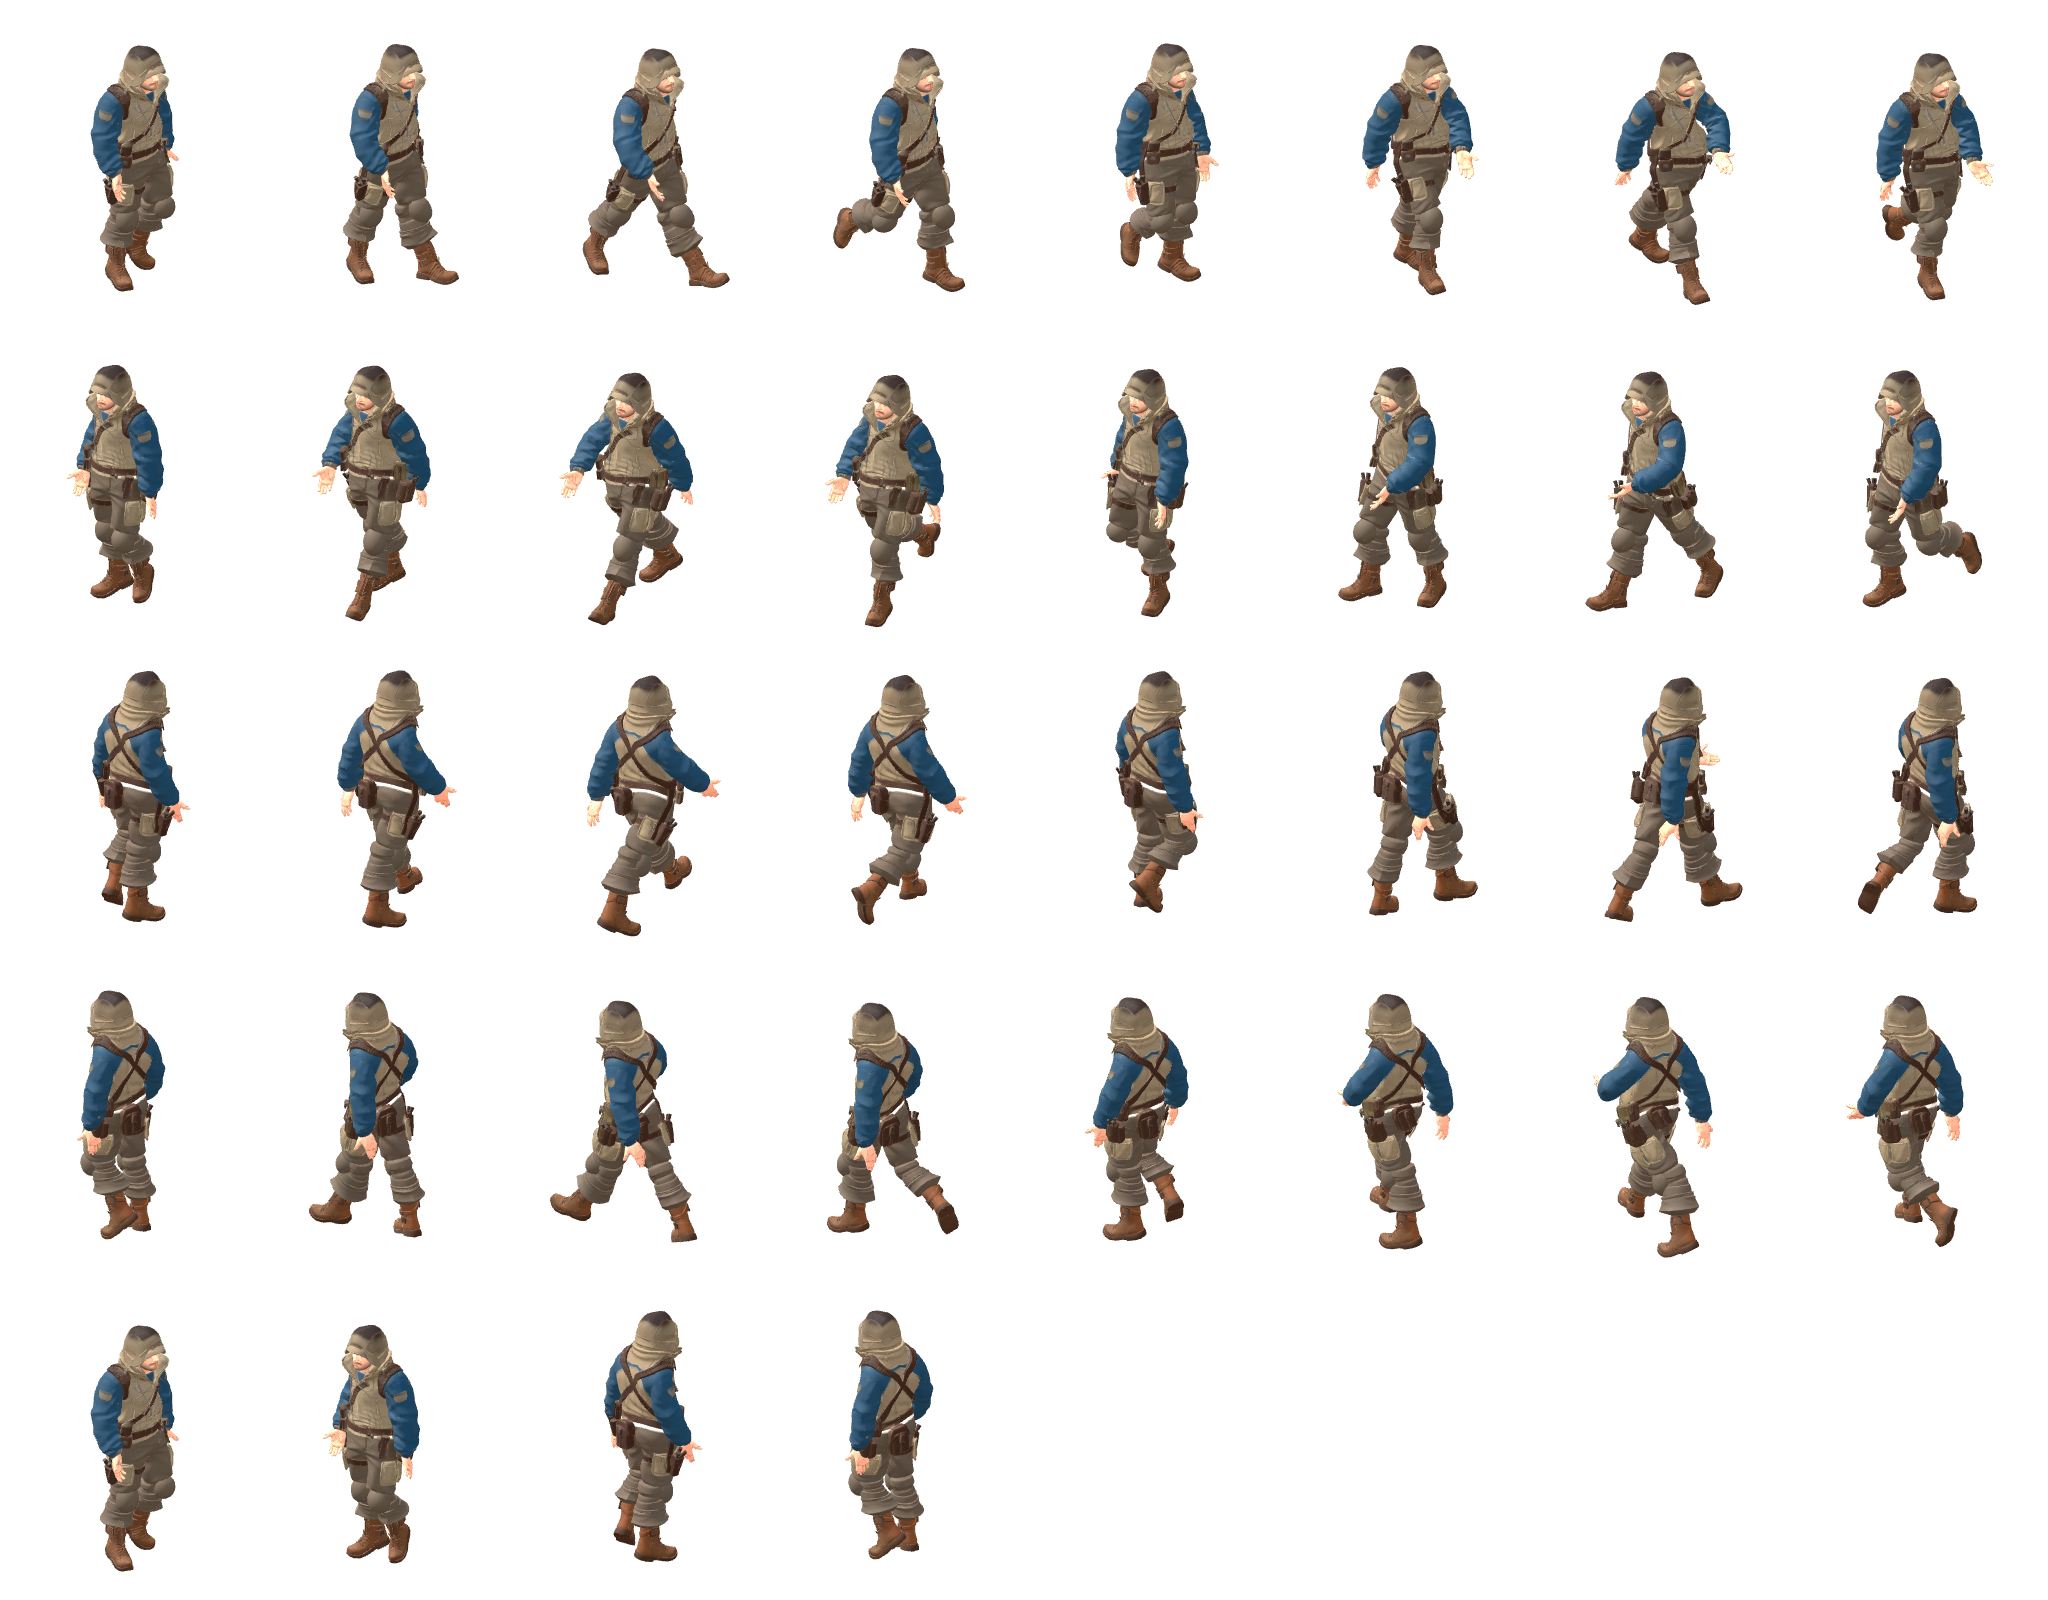
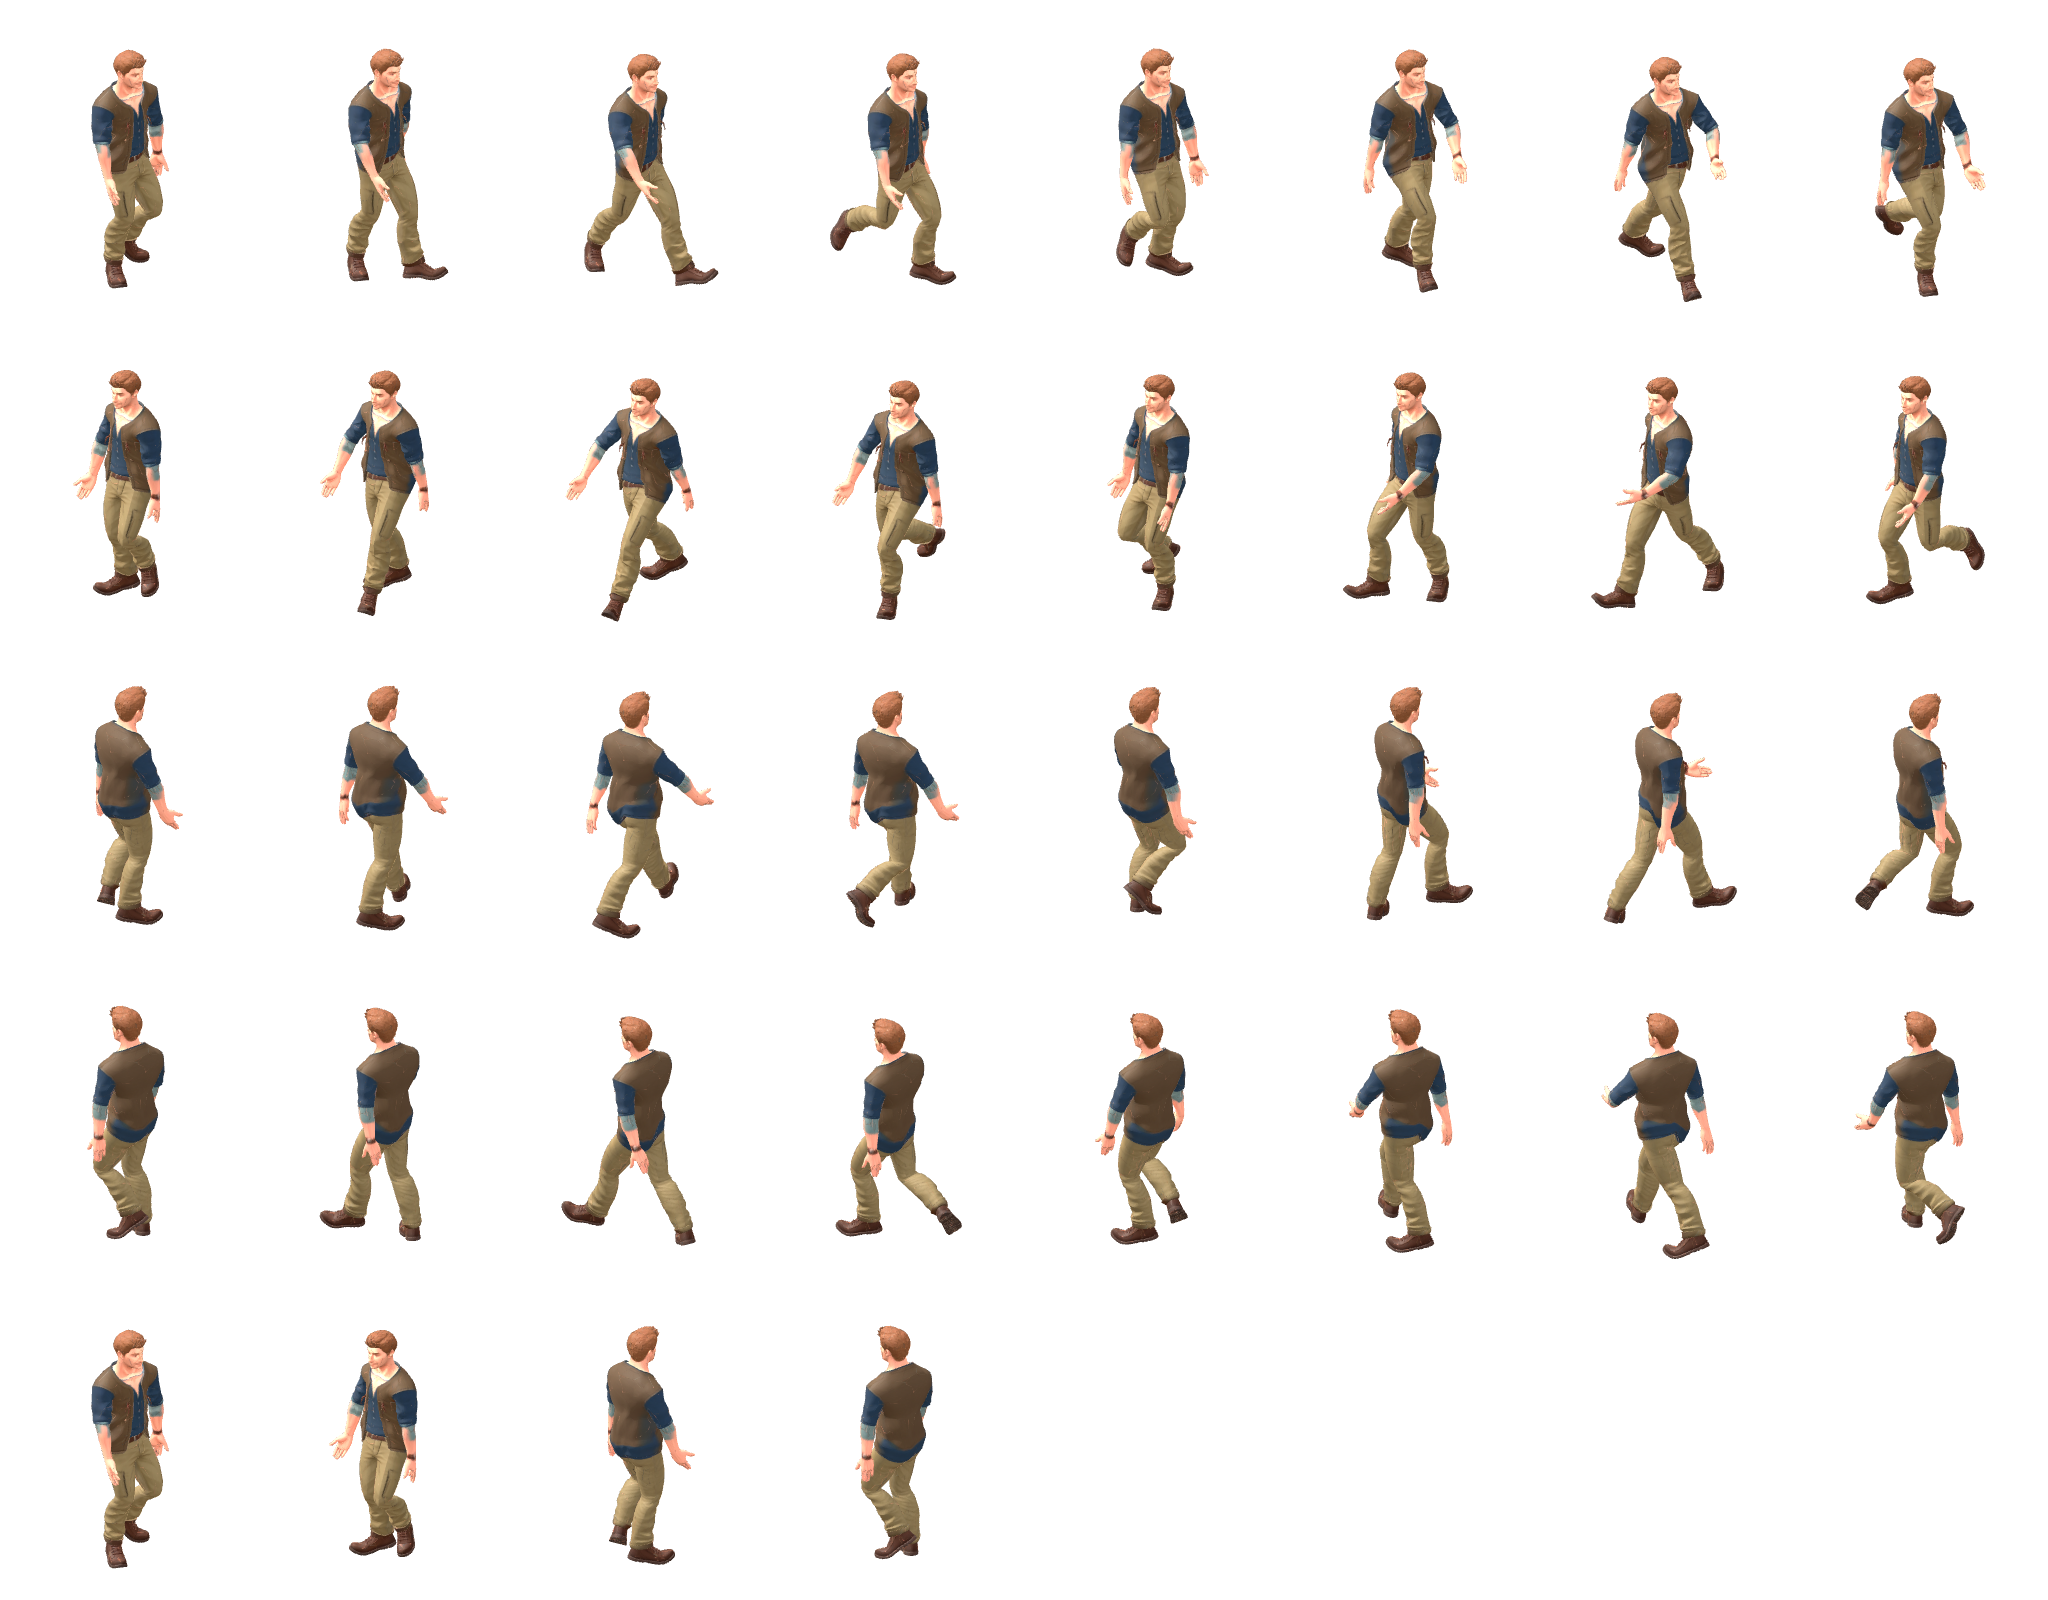
Captain v2 sprite sheet; matches crew style
Claude-Session: https://claude.ai/code/session_015PRSzR8Wnn9zCSxfKuTdYo

diff --git a/design/proto_iso.html b/design/proto_iso.html
@@ -135,7 +135,7 @@ button:hover { border-color: var(--amber); } button:focus-visible { outline: 2px
     if (!(key(...t) in prev)) return null; const p = []; let c = t; while (c) { p.unshift(c); c = prev[key(...c)]; } return p;
   }
 
-  const me = { i: 7, j: 7, x: 0, y: 0, path: [], then: null, col: '#8fd694', name: 'Captain', dir: 'sw', sprite: true };
+  const me = { i: 7, j: 7, x: 0, y: 0, path: [], then: null, col: '#8fd694', name: 'Captain', dir: 'sw', sprite: true, sc: 0.63 };
   let npcs = [];
   const MANIFOLD = { rect: [335, 62, 430, 152], stand: [5, 1] };
   let done = false, insp = 0, show = false, hover = null, hoverCell = null, dlg = false, fade = 0, fadeDir = 0, pending = null;

diff --git a/docs/character_art_brief.md b/docs/character_art_brief.md
@@ -51,3 +51,6 @@ Style learning: Meshy ignores 'no X' exclusions; body type words matter ('lean s
 - castellan: preview_v1 01a1841d-f2c4-73b8-a30f-90076c13ea2c, preview 01a1842e-101f-70b7-ac94-f44a91eb504f, refine 01a1843b-9033-7166-9363-bf2c95f9c92b, remesh 01a1843d-5703-7483-87ab-79d9270a5b60, rig 01a1843e-ddef-700e-bbe8-a97dc11e8df0
 - quill: preview 01a1841d-ffa9-7627-8bfa-d9890c6bbc3b, refine 01a1842e-26f9-7541-a501-85353ccdbb33, remesh 01a1843d-4c79-7169-9599-80961daa2f77, rig 01a1843e-b9fd-7602-b2c0-38f3e4926456
 - fenwick: preview_v1 01a1841e-0d67-75b1-a5a4-055315568f66, preview_v2 01a1842e-1b1f-7620-bb61-5fca2621a0b1, refine_v2 01a1843b-95e7-752d-ba9b-69fde193b07c, preview 01a1843d-6815-71ff-ba22-097e0be90663
+
+### Captain v2 (2026-10-28)
+Regenerated with the learned prompt style (style first, positive wording, average build, plain navy shirt, canvas vest, tan trousers, one wristband). Result matches the crew's look. Old sheet kept as design/assets/captain_v1_sheet.png. IDs in design/assets/meshy_output/crew/ids.json under captain2. Height 1.78 m (demo scale 0.63).
